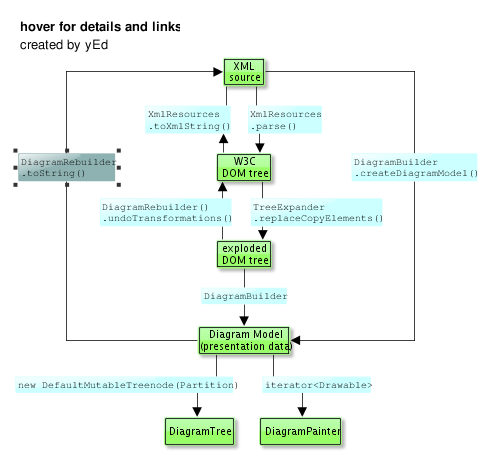
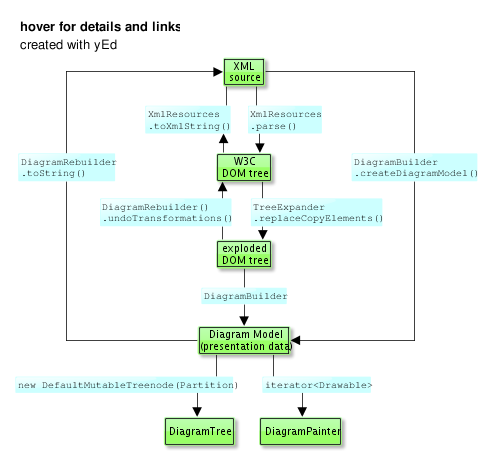
diagrams collected on a single page

Changed region(s): [[0.0305, 0.3037, 0.2439, 0.3948], [0.122, 0.0607, 0.2439, 0.1215]]

diff --git a/trunk/doc/index.html b/trunk/doc/index.html
@@ -1,0 +1,11 @@
+<html>
+<head><title>Class and object diagrams</title>
+</head>
+
+<p><a href="3stageRocket.html">3stageRocket.html</a></p><iframe src="3stageRocket.html" width="500" height="500"></iframe>
+<p><a href="ModelObjects.html">ModelObjects.html</a></p><iframe src="ModelObjects.html" width="970" height="710"></iframe>
+<p><a href="classTree.gif">classTree.gif</a></p><iframe src="classTree.gif" width="1085" height="775"></iframe>
+<p><a href="objectTree.gif">objectTree.gif</a></p><iframe src="objectTree.gif" width="740" height="1070"></iframe>
+<p><a href="packageDependencies.gif">packageDependencies.gif</a></p><iframe src="packageDependencies.gif" width="710" height="410"></iframe>
+
+</html>

diff --git a/trunk/doc/ModelObjects.html b/trunk/doc/ModelObjects.html
@@ -147,7 +147,7 @@ getSourceObject() relations.<br/>
 <p></body></div>
 <div class="tooltip" id="n30"><body>
 <b>hover for details and links   </b>
-<p>created by yEd</p>
+<p>created with yEd</p>
 <p></body></div>
 <div class="tooltip" id="n31"><body><p>
 getUserData(TreeExpander.[INDIRECT_]CLONE_TO_ORPHANE)<br/>

diff --git a/trunk/doc/3stageRocket.html b/trunk/doc/3stageRocket.html
@@ -92,7 +92,7 @@ tooltip.style.display = "none";
 
 <div class="tooltip" id="n0"><body>
 <b>hover for details and links   </b>
-<p>created by yEd</p>
+<p>created with yEd</p>
 <p></body></div>
 <div class="tooltip" id="n1"><body><p>
 getUserData(TreeExpander.[INDIRECT_]CLONE_TO_ORPHANE)<br/>
